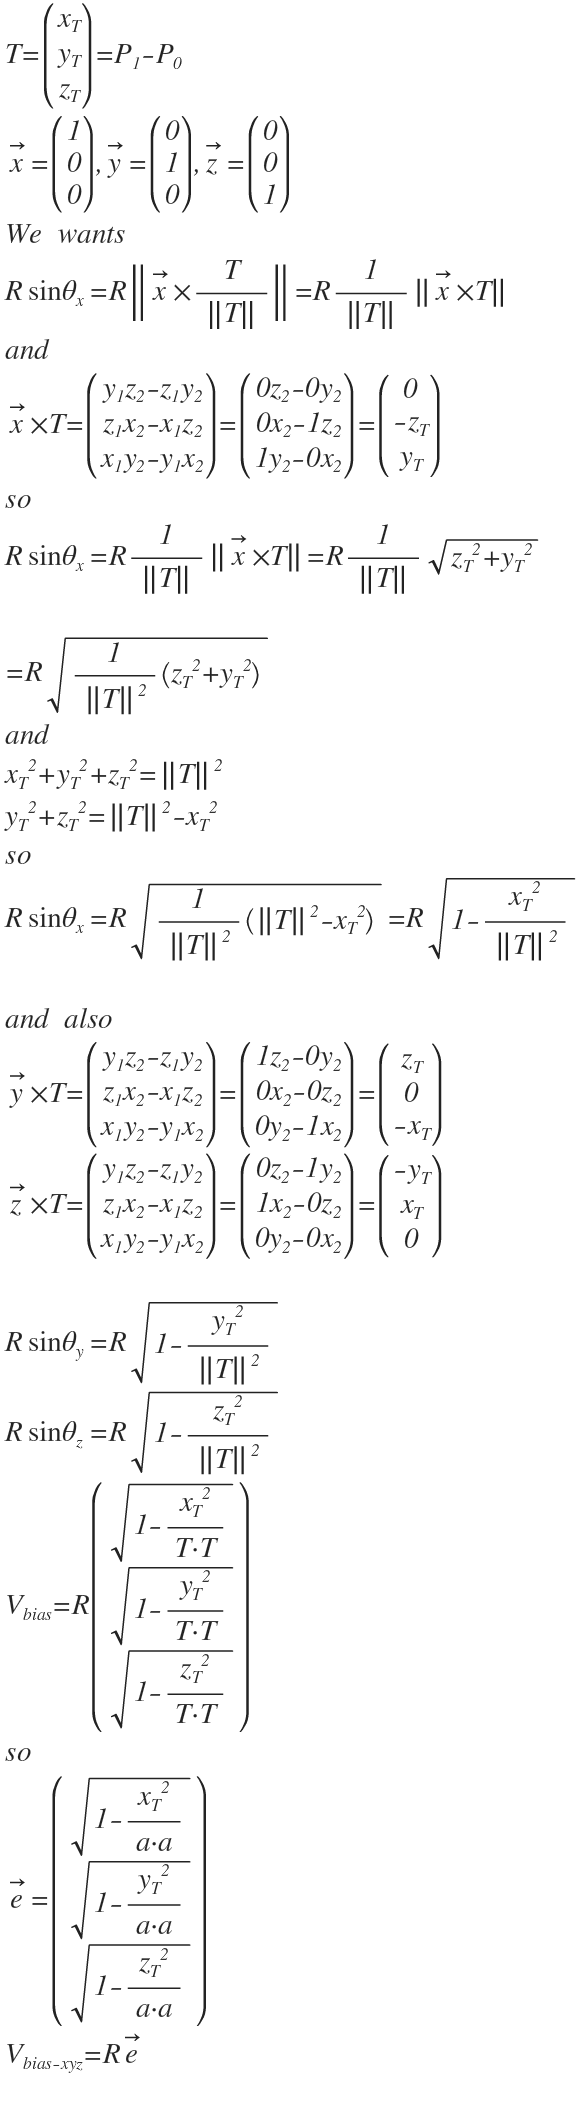
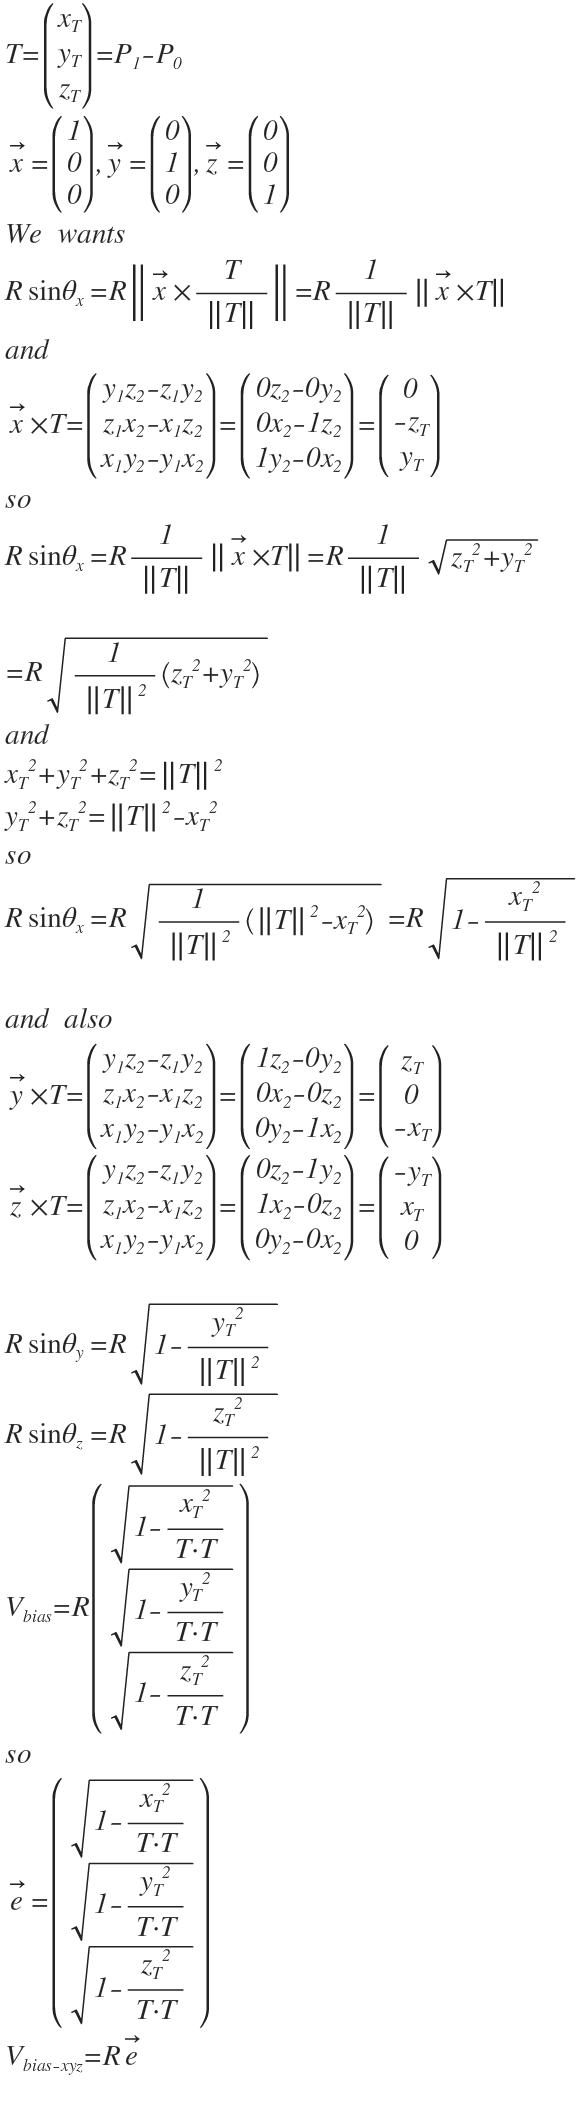
fix typo

diff --git a/README.md b/README.md
@@ -17,7 +17,7 @@ premake5 vs2019
 
 <!-- 
 
-T=\begin{pmatrix} x_{ T } \\ y_{ T } \\ z_{ T } \end{pmatrix}=P_{ 1 }-P_{ 0 }\\ \overrightarrow { x } =\begin{pmatrix} 1 \\ 0 \\ 0 \end{pmatrix},\overrightarrow { y } =\begin{pmatrix} 0 \\ 1 \\ 0 \end{pmatrix},\overrightarrow { z } =\begin{pmatrix} 0 \\ 0 \\ 1 \end{pmatrix}\\ We\quad wants\\ R\sin { \theta _{ x } } =R\left\| \overrightarrow { x } \times \frac { T }{ \left\| T \right\|  }  \right\| =R\frac { 1 }{ \left\| T \right\|  } \left\| \overrightarrow { x } \times T \right\| \\ and\\ \overrightarrow { x } \times T=\begin{pmatrix} y_{ 1 }z_{ 2 }-z_{ 1 }y_{ 2 } \\ z_{ 1 }x_{ 2 }-x_{ 1 }z_{ 2 } \\ x_{ 1 }y_{ 2 }-y_{ 1 }x_{ 2 } \end{pmatrix}=\begin{pmatrix} 0z_{ 2 }-0y_{ 2 } \\ 0x_{ 2 }-1z_{ 2 } \\ 1y_{ 2 }-0x_{ 2 } \end{pmatrix}=\begin{pmatrix} 0 \\ -z_{ T } \\ y_{ T } \end{pmatrix}\\ so\\ R\sin { \theta _{ x } } =R\frac { 1 }{ \left\| T \right\|  } \left\| \overrightarrow { x } \times T \right\| =R\frac { 1 }{ \left\| T \right\|  } \sqrt { { z_{ T } }^{ 2 }+{ y_{ T } }^{ 2 } } \\ \\ =R\sqrt { \frac { 1 }{ { \left\| T \right\|  }^{ 2 } } \left( { z_{ T } }^{ 2 }+{ y_{ T } }^{ 2 } \right)  } \\ and\\ { x_{ T } }^{ 2 }+{ y_{ T } }^{ 2 }+{ z_{ T } }^{ 2 }={ \left\| T \right\|  }^{ 2 }\\ { y_{ T } }^{ 2 }+{ z_{ T } }^{ 2 }={ \left\| T \right\|  }^{ 2 }-{ x_{ T } }^{ 2 }\\ so\\ R\sin { \theta _{ x } } =R\sqrt { \frac { 1 }{ { \left\| T \right\|  }^{ 2 } } \left( { \left\| T \right\|  }^{ 2 }-{ x_{ T } }^{ 2 } \right)  } =R\sqrt { 1-\frac { { x_{ T } }^{ 2 } }{ { \left\| T \right\|  }^{ 2 } }  } \\ \\ and\quad also\\ \overrightarrow { y } \times T=\begin{pmatrix} y_{ 1 }z_{ 2 }-z_{ 1 }y_{ 2 } \\ z_{ 1 }x_{ 2 }-x_{ 1 }z_{ 2 } \\ x_{ 1 }y_{ 2 }-y_{ 1 }x_{ 2 } \end{pmatrix}=\begin{pmatrix} 1z_{ 2 }-0y_{ 2 } \\ 0x_{ 2 }-0z_{ 2 } \\ 0y_{ 2 }-1x_{ 2 } \end{pmatrix}=\begin{pmatrix} z_{ T } \\ 0 \\ -x_{ T } \end{pmatrix}\\ \overrightarrow { z } \times T=\begin{pmatrix} y_{ 1 }z_{ 2 }-z_{ 1 }y_{ 2 } \\ z_{ 1 }x_{ 2 }-x_{ 1 }z_{ 2 } \\ x_{ 1 }y_{ 2 }-y_{ 1 }x_{ 2 } \end{pmatrix}=\begin{pmatrix} 0z_{ 2 }-1y_{ 2 } \\ 1x_{ 2 }-0z_{ 2 } \\ 0y_{ 2 }-0x_{ 2 } \end{pmatrix}=\begin{pmatrix} -y_{ T } \\ x_{ T } \\ 0 \end{pmatrix}\\ \\ R\sin { \theta _{ y } } =R\sqrt { 1-\frac { { y_{ T } }^{ 2 } }{ { \left\| T \right\|  }^{ 2 } }  } \\ R\sin { \theta _{ z } } =R\sqrt { 1-\frac { { z_{ T } }^{ 2 } }{ { \left\| T \right\|  }^{ 2 } }  } \\ V_{ bias }=R\begin{pmatrix} \sqrt { 1-\frac { { x_{ T } }^{ 2 } }{ T\cdot T }  }  \\ \sqrt { 1-\frac { { y_{ T } }^{ 2 } }{ T\cdot T }  }  \\ \sqrt { 1-\frac { { z_{ T } }^{ 2 } }{ T\cdot T }  }  \end{pmatrix}\\ so\\ \overrightarrow { e } =\begin{pmatrix} \sqrt { 1-\frac { { x_{ T } }^{ 2 } }{ a\cdot a }  }  \\ \sqrt { 1-\frac { { y_{ T } }^{ 2 } }{ a\cdot a }  }  \\ \sqrt { 1-\frac { { z_{ T } }^{ 2 } }{ a\cdot a }  }  \end{pmatrix}\\ V_{ bias-xyz }=R\overrightarrow { e } \\ 
+T=\begin{pmatrix} x_{ T } \\ y_{ T } \\ z_{ T } \end{pmatrix}=P_{ 1 }-P_{ 0 }\\ \overrightarrow { x } =\begin{pmatrix} 1 \\ 0 \\ 0 \end{pmatrix},\overrightarrow { y } =\begin{pmatrix} 0 \\ 1 \\ 0 \end{pmatrix},\overrightarrow { z } =\begin{pmatrix} 0 \\ 0 \\ 1 \end{pmatrix}\\ We\quad wants\\ R\sin { \theta _{ x } } =R\left\| \overrightarrow { x } \times \frac { T }{ \left\| T \right\|  }  \right\| =R\frac { 1 }{ \left\| T \right\|  } \left\| \overrightarrow { x } \times T \right\| \\ and\\ \overrightarrow { x } \times T=\begin{pmatrix} y_{ 1 }z_{ 2 }-z_{ 1 }y_{ 2 } \\ z_{ 1 }x_{ 2 }-x_{ 1 }z_{ 2 } \\ x_{ 1 }y_{ 2 }-y_{ 1 }x_{ 2 } \end{pmatrix}=\begin{pmatrix} 0z_{ 2 }-0y_{ 2 } \\ 0x_{ 2 }-1z_{ 2 } \\ 1y_{ 2 }-0x_{ 2 } \end{pmatrix}=\begin{pmatrix} 0 \\ -z_{ T } \\ y_{ T } \end{pmatrix}\\ so\\ R\sin { \theta _{ x } } =R\frac { 1 }{ \left\| T \right\|  } \left\| \overrightarrow { x } \times T \right\| =R\frac { 1 }{ \left\| T \right\|  } \sqrt { { z_{ T } }^{ 2 }+{ y_{ T } }^{ 2 } } \\ \\ =R\sqrt { \frac { 1 }{ { \left\| T \right\|  }^{ 2 } } \left( { z_{ T } }^{ 2 }+{ y_{ T } }^{ 2 } \right)  } \\ and\\ { x_{ T } }^{ 2 }+{ y_{ T } }^{ 2 }+{ z_{ T } }^{ 2 }={ \left\| T \right\|  }^{ 2 }\\ { y_{ T } }^{ 2 }+{ z_{ T } }^{ 2 }={ \left\| T \right\|  }^{ 2 }-{ x_{ T } }^{ 2 }\\ so\\ R\sin { \theta _{ x } } =R\sqrt { \frac { 1 }{ { \left\| T \right\|  }^{ 2 } } \left( { \left\| T \right\|  }^{ 2 }-{ x_{ T } }^{ 2 } \right)  } =R\sqrt { 1-\frac { { x_{ T } }^{ 2 } }{ { \left\| T \right\|  }^{ 2 } }  } \\ \\ and\quad also\\ \overrightarrow { y } \times T=\begin{pmatrix} y_{ 1 }z_{ 2 }-z_{ 1 }y_{ 2 } \\ z_{ 1 }x_{ 2 }-x_{ 1 }z_{ 2 } \\ x_{ 1 }y_{ 2 }-y_{ 1 }x_{ 2 } \end{pmatrix}=\begin{pmatrix} 1z_{ 2 }-0y_{ 2 } \\ 0x_{ 2 }-0z_{ 2 } \\ 0y_{ 2 }-1x_{ 2 } \end{pmatrix}=\begin{pmatrix} z_{ T } \\ 0 \\ -x_{ T } \end{pmatrix}\\ \overrightarrow { z } \times T=\begin{pmatrix} y_{ 1 }z_{ 2 }-z_{ 1 }y_{ 2 } \\ z_{ 1 }x_{ 2 }-x_{ 1 }z_{ 2 } \\ x_{ 1 }y_{ 2 }-y_{ 1 }x_{ 2 } \end{pmatrix}=\begin{pmatrix} 0z_{ 2 }-1y_{ 2 } \\ 1x_{ 2 }-0z_{ 2 } \\ 0y_{ 2 }-0x_{ 2 } \end{pmatrix}=\begin{pmatrix} -y_{ T } \\ x_{ T } \\ 0 \end{pmatrix}\\ \\ R\sin { \theta _{ y } } =R\sqrt { 1-\frac { { y_{ T } }^{ 2 } }{ { \left\| T \right\|  }^{ 2 } }  } \\ R\sin { \theta _{ z } } =R\sqrt { 1-\frac { { z_{ T } }^{ 2 } }{ { \left\| T \right\|  }^{ 2 } }  } \\ V_{ bias }=R\begin{pmatrix} \sqrt { 1-\frac { { x_{ T } }^{ 2 } }{ T\cdot T }  }  \\ \sqrt { 1-\frac { { y_{ T } }^{ 2 } }{ T\cdot T }  }  \\ \sqrt { 1-\frac { { z_{ T } }^{ 2 } }{ T\cdot T }  }  \end{pmatrix}\\ so\\ \overrightarrow { e } =\begin{pmatrix} \sqrt { 1-\frac { { x_{ T } }^{ 2 } }{ T\cdot T }  }  \\ \sqrt { 1-\frac { { y_{ T } }^{ 2 } }{ T\cdot T }  }  \\ \sqrt { 1-\frac { { z_{ T } }^{ 2 } }{ T\cdot T }  }  \end{pmatrix}\\ V_{ bias-xyz }=R\overrightarrow { e } \\ 
 
  -->
 
